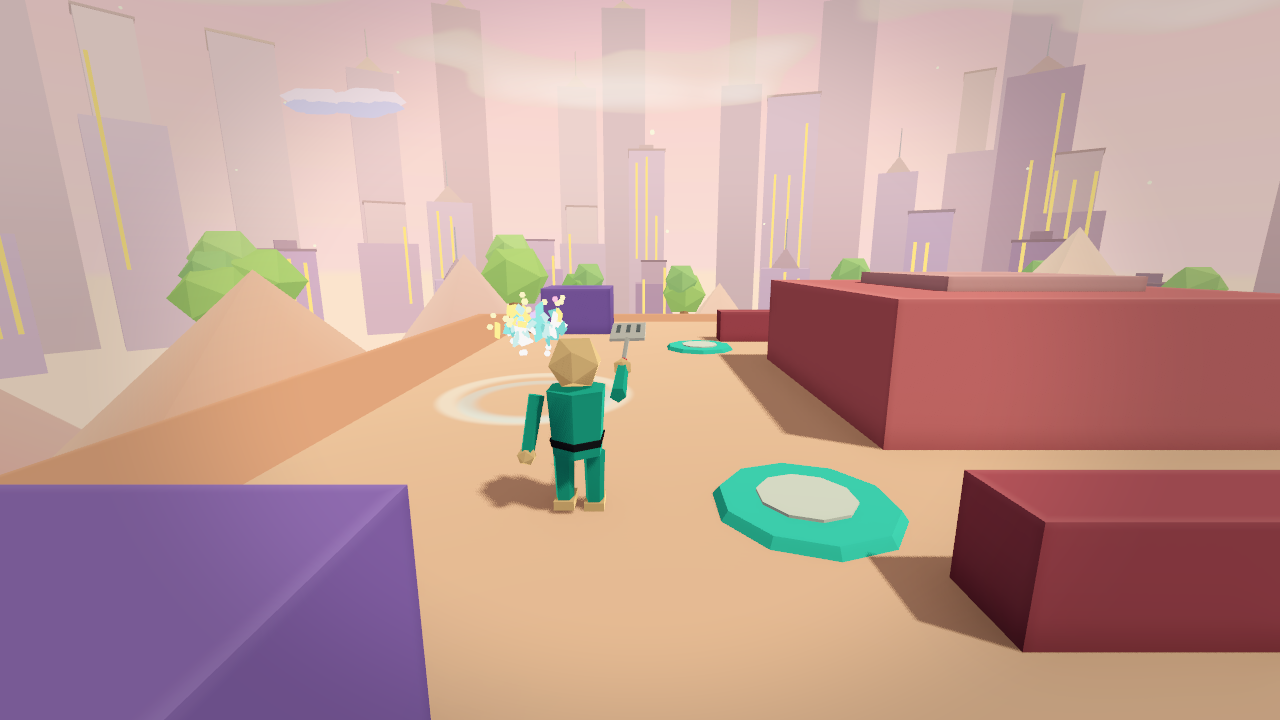
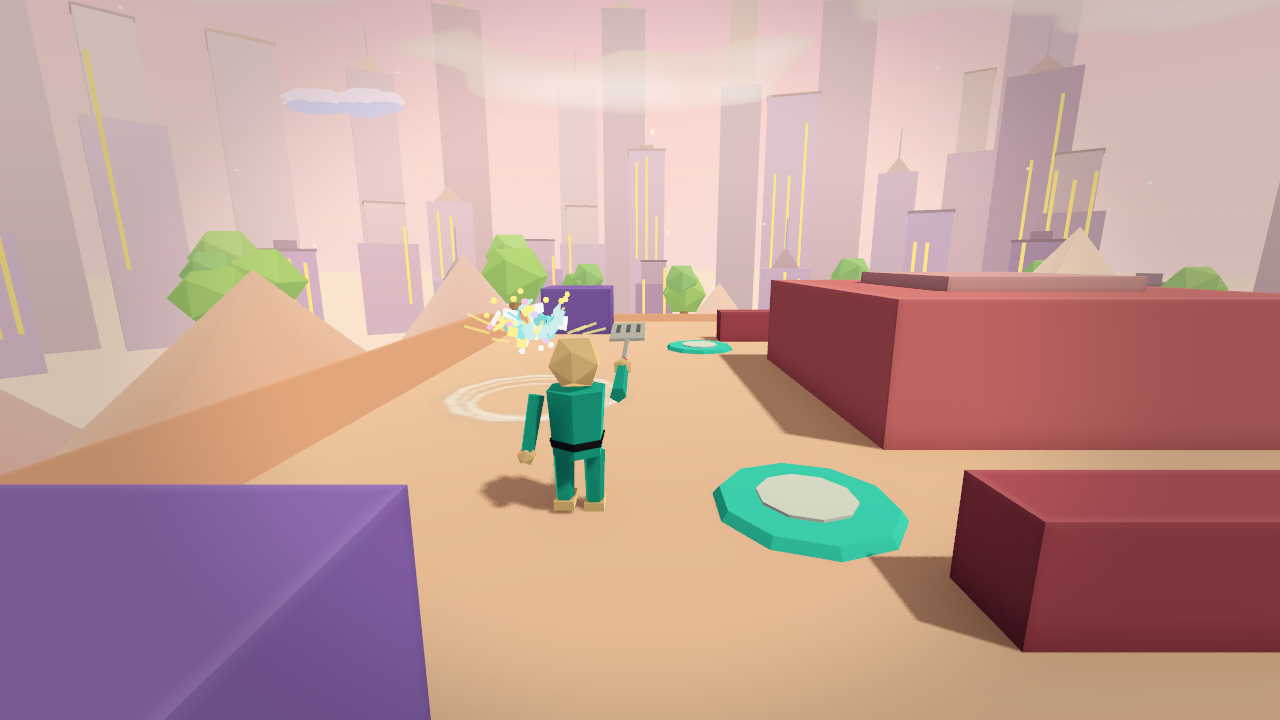
Polish handheld UI and low-poly combat VFX (#105)
* Polish handheld UI and low-poly combat VFX

* Allow full UI matrix time on CI

* Raise UI runner output buffer

diff --git a/tools/test-ui.js b/tools/test-ui.js
@@ -9,12 +9,21 @@ const DIR = path.join(__dirname, '..', 'godot');
 spawnSync(GODOT, ['--headless', '--path', DIR, '--import'], { timeout: 180000 });   // registers class_name scripts
 let failed = false;
 for (const t of ['ui_layout_test', 'hud_test']) {
-  const r = spawnSync(GODOT, ['--headless', '--path', DIR, '--script', `res://tests/${t}.gd`, '--', '--no-save'], { encoding: 'utf8', timeout: 300000 });
+  // The full multilingual/resolution matrix now includes the 44 pt Small layout and takes close to
+  // five minutes on a cold GitHub runner. Keep the same coverage, but leave headroom for that host.
+  const r = spawnSync(GODOT, ['--headless', '--path', DIR, '--script', `res://tests/${t}.gd`, '--', '--no-save'], {
+    encoding: 'utf8', timeout: 600000, maxBuffer: 16 * 1024 * 1024,
+  });
   const out = (r.stdout || '') + (r.stderr || '');
   const lines = out.split('\n').filter(l => /^(UI|HUD|FAIL)|ERROR|SCRIPT ERROR/.test(l));
   console.log(lines.join('\n'));
   const ok = r.status === 0 && /^(UI|HUD) ok/m.test(out) && !/SCRIPT ERROR|^ERROR/m.test(out);
-  if (!ok) { if (!lines.length) console.log(out.slice(0, 2000)); console.log(`${t} FAILED`); failed = true; }
+  if (!ok) {
+    if (r.error) console.log(`${t}: ${r.error.message}`);
+    if (!lines.length) console.log(out.slice(0, 2000));
+    console.log(`${t} FAILED`);
+    failed = true;
+  }
 }
 if (failed) process.exit(1);
 console.log('godot ui test passes');

diff --git a/docs/GRAPHICS.md b/docs/GRAPHICS.md
@@ -143,8 +143,9 @@ CPU 4.1  GPU 6.2 ms              process ms, GPU frame ms
 MID  thermal n/a  310 MB         graphics tier, thermal state, engine memory
 ```
 
-The node exists only while the setting is on, so there is no cost when off. (The older "Show frame rate" pill, F3 or
-a three-finger tap, is separate and unchanged.)
+The node exists only while the setting is on, so there is no cost when off. The compact "Show frame rate" pill (F3 or
+a three-finger tap) now sits below the score panel too; when both are enabled, the detailed readout stacks beneath it
+instead of competing with objective banners at the top centre.
 
 ### 15-minute soak
 
@@ -185,12 +186,18 @@ Tests: `npm run test:godot-perf` (stats maths, readout on/off, a 10 s soak with 
 ## Effects (Phase 4 part 2: motion polish and particles)
 
 Screenshots (HIGH): `docs/style/godot-fx-explosion.png` (mid-explosion), `-confetti.png` (K.O. confetti + ring),
-`-dash.png` (dash streaks + ring), `-melee.png` (katana swing trail), `-dust.png` (landing dust, ring and squash);
+`-dash.png` (dash streaks + ring), `-melee.png` (katana swing trail), `-impact.png` (faceted hit burst and damage
+vignette), `-dust.png` (landing dust, ring and squash);
 `tools/shoot-godot-fx.sh` re-renders them (`godot/tests/fx_shots.gd`).
 
 Everything here is presentation only: it reads Combat events and fighter states, never writes sim state and never
 draws from the global RNG. `npm run test:godot-fx` plays a seeded 40 s match with effects on and off and compares
 the sim hash every second (identical), and floods every pool on every level.
+
+The effect language stays deliberately low-poly: 20-face icosahedral fire masses, angular debris, faceted contact
+sparks, a segmented twelve-sided shockwave shader, and a matching twelve-sided damage vignette. Explosions favour a
+bright core with smaller offset lobes, soot-dark chips and radial streaks over one opaque sphere; this keeps the
+silhouette readable and the fighters visible through the blast.
 
 | | LOW | MID | HIGH |
 |---|---|---|---|
@@ -203,7 +210,7 @@ the sim hash every second (identical), and floods every pool on every level.
 | Damage-number labels (pooled Label3D) | 10 | 20 | 28 |
 | Ribbons (live trails) / samples per ribbon | 4 / 8, melee only | 12 / 12 | 24 / 18 |
 | Ambient specks | off | 36 | 72 |
-| Explosion | 2 fireballs, ring, 2 smoke, 4 debris | 3 fireballs, 2 rings, 5 smoke, 8 debris, 6 spark streaks | + 4 offset fireballs, 9 smoke, 14 debris, 10 streaks |
+| Explosion | offset hot lobes, dark shells, 2 rings, debris and embers | additional dark smoke, 3 hot lobes, 10 debris, 8 radial embers | 6 dark shells, 3 hot lobes, 2 rings, 16 debris, 11 radial embers |
 | Shell casings, spark streaks, head-hit ring, take-off dust, sprint footsteps | off | on | on |
 | Squash / stretch, hitstop, camera shake | on | on | on |
 
@@ -218,16 +225,19 @@ What triggers what:
   the feet and a puff. **Slam** landing (an air swing that lands): a shockwave ring, dust ring, shake.
 - **Hits** (`hit` event, damage zones from its `part`): sparks in the part colour (the damage-number colours: head red,
   torso yellow, arms blue, legs grey, so the struck spot and the number read the same) at the struck point, count by
-  damage, speed by force, spark streaks above LOW, a small ring on head hits; the wobbler's own hit flash stays.
+  damage, speed by force, a compact faceted contact burst, dark chips and hot directional streaks above LOW, a small
+  ring on head hits; the wobbler's own hit flash stays and player damage adds a brief twelve-sided screen edge flash.
 - **K.O.**: the death pop (`ko_burst`: puffs + `koBurst` ring + sparkles) and confetti in the killer's colour (with a
   ring), a 0.18 shake and, when the player scored it, a 4-frame hitstop.
-- **Explosions** (rockets, grenades, meteor): fireball layers, ground ring(s), rising smoke, tumbling debris, sparks,
-  shake by camera distance (the web's `0.34 - d x 0.011`). Flames and rocket exhaust smoke are blobs too.
+- **Explosions** (rockets, grenades, meteor): hot faceted lobes inside soot-dark shells, segmented ground rings,
+  radial embers, tumbling angular debris, shake by camera distance (the web's `0.34 - d x 0.011`). Flames and rocket
+  exhaust smoke use the same faceted blob pool.
 - **Guns** (`shot`): a muzzle flash blob and three sparks; a brass (red for the shotgun) shell flicked out above LOW.
 - **Bounce pads**: a cyan ring (+ white inner ring) and a puff.
 - **Trails** (`world/trails.gd`): melee swing ribbon from the shoulder along the sim's swing target (`aim_*`, the arm
-  itself lags on a spring) to the weapon tip, in the weapon colour, 0.2 s; projectile ribbons (arrow, rocket,
-  shuriken, typhoon, boomerang, knife, trident), camera facing, 0.16-0.4 s. One ImmediateMesh for all of them.
+  itself lags on a spring) to the weapon tip, with a white-hot leading edge and narrow blade core, in the weapon
+  colour, 0.2 s; projectile ribbons (arrow, rocket, shuriken, typhoon, boomerang, knife, trident), camera facing,
+  0.16-0.4 s. One ImmediateMesh for all of them.
 - **Squash / stretch** (`actors/fighter_juice.gd`): a spring kicked by the landing speed (squash, overshooting into a
   stretch), a stretch kick on take-off, vertical stretch with speed in the air, a squeeze on hits. It scales the rig on
   top of the classic pose or the ragdoll overlay; `Fighter.present` restores the nodes before `animate()`, so the
@@ -261,13 +271,14 @@ Measured (dev Mac, 1170x540 window, this branch):
 
 | Tier | Farm (no stress) | `fx` stress (Farm) | fx peaks |
 |---|---|---|---|
-| HIGH | cpu 1.76 ms, 894 draws, 114k prims | cpu 2.79 ms (p95 3.35), 912 draws, 143k prims | bits 697 / chips 240 / blobs 112 / rings 24 / streaks 84, 5 ribbons |
-| MID | cpu 1.74 ms, 464 draws, 83k prims | cpu 2.41 ms (p95 2.96), 512 draws, 99k prims | 320 / 120 / 56 / 16 / 58, 5 ribbons |
-| LOW | cpu 1.62 ms, 349 draws, 67k prims | cpu 1.94 ms (p95 2.39), 431 draws, 74k prims | 96 / 24 / 16 / 6 / 6, 4 ribbons |
+| HIGH | cpu 1.96 ms, 902 draws, 116k prims | cpu 3.08 ms (p95 3.69), 1021 draws, 139k prims | 709 / 240 / 112 / 21 / 124, 3 ribbons |
+| MID | cpu 1.88 ms, 472 draws, 85k prims | cpu 2.44 ms (p95 2.96), 563 draws, 97k prims | 320 / 120 / 56 / 16 / 64, 3 ribbons |
+| LOW | cpu 1.90 ms, 358 draws, 67k prims | cpu 2.11 ms (p95 2.52), 498 draws, 74k prims | 96 / 24 / 16 / 6 / 14, 3 ribbons |
 
 All under the 4 ms CPU / 1400-800-650 draw / 200k-130k-110k primitive budgets; frames stayed at the display's
-8.33 ms (LOW p95 10.6 ms). The effects add at most ~7 draw calls (five pools, trails, specks) plus the labels; the
-cost is CPU (~1 ms at HIGH caps, ~0.3 ms at LOW), i.e. ~3 ms of an iPhone 12 frame at MID worst case. A normal match
+8.33 ms (LOW p95 10.6 ms; the latest MID stress p95 was 6.83 ms). The effects add at most ~7 draw calls (five pools,
+trails, specks) plus the labels; the cost is CPU (~1 ms at HIGH caps, ~0.2 ms at LOW), i.e. under ~3 ms of an iPhone
+12 frame at MID worst case. A normal match
 stays far below the caps (40 s, 8 fighters, HIGH: bits peak ~110, blobs 24, streaks 23).
 
 ## Still off

diff --git a/docs/UI_REVIEW.md b/docs/UI_REVIEW.md
@@ -6,7 +6,8 @@ Goal: every screen reads at a glance on a phone held in landscape. Nothing overl
 
 - Spacing comes from the scale in `ui/theme_builder.gd`: `SP_1` 4, `SP_2` 8, `SP_3` 12, `SP_4` 16, `SP_5` 24 (canvas px).
 - Two interactive controls are at least 8 pt apart (`MIN_GAP`) and never overlap (landscape, 44 pt scale).
-- Touch targets stay at least 44 pt.
+- Touch targets stay at least 44 pt. This includes the optional Small density on handhelds; Small remains denser only
+  on mouse-driven devices.
 - No label is set below `UiTheme.MIN_FONT` (14 px), and no visible text is truncated (ellipsis, clipped line, over-long wrap).
 - A busy bar (title top row and cards row, wizard footer and header, Walldrobe header and footer) holds at most 4 buttons.
 - The checks also run in Francais and Japanese on the key screens.
@@ -16,6 +17,8 @@ Goal: every screen reads at a glance on a phone held in landscape. Nothing overl
 - Title: What's new moved into Settings > About, with a gold dot on the gear while patch notes are unseen; three cards remain (Walldrobe, Shop, Goals). The version line hides on the online tab.
 - Setup wizard: the five step pills became progress dots; the footer is Back / Next only.
 - HUD: the toast has its own top band (`MatchHud.TOP_STACK`) and the team board / mode line start below it; long hotbar weapon names wrap to two lines instead of shrinking.
+- HUD text has an ink outline over bright arenas. The F3 frame-time pill and detailed performance readout stack below
+  the score panel, preserving the top-centre objective band and clear thumb arcs.
 - Results: a dim layer sits under the panel and the toast is cleared, so only Play again / Quit compete for attention.
 - Sheets (host a room, lobby, account, What's new): opaque or strongly dimmed backdrop, centred in the safe area, long player names trimmed.
 - Walldrobe, Settings, controls help, room browser, team board: spacing moved onto the scale.
